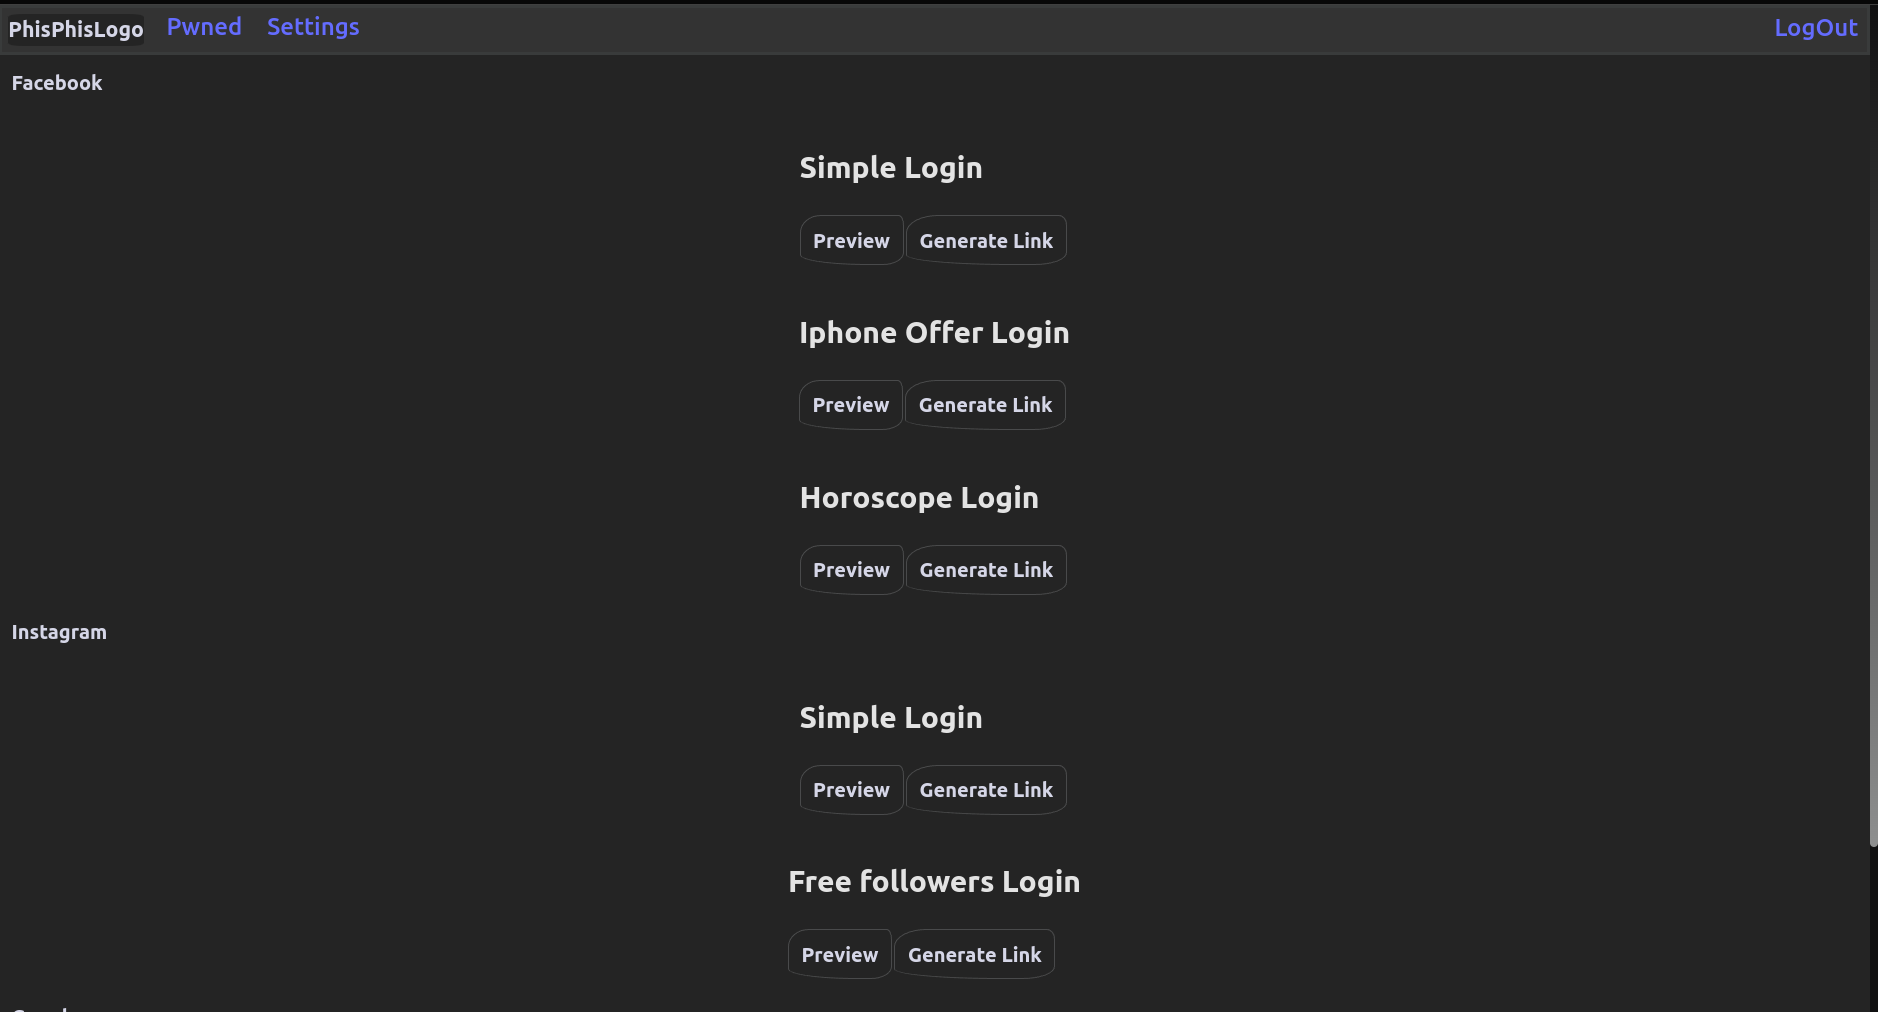
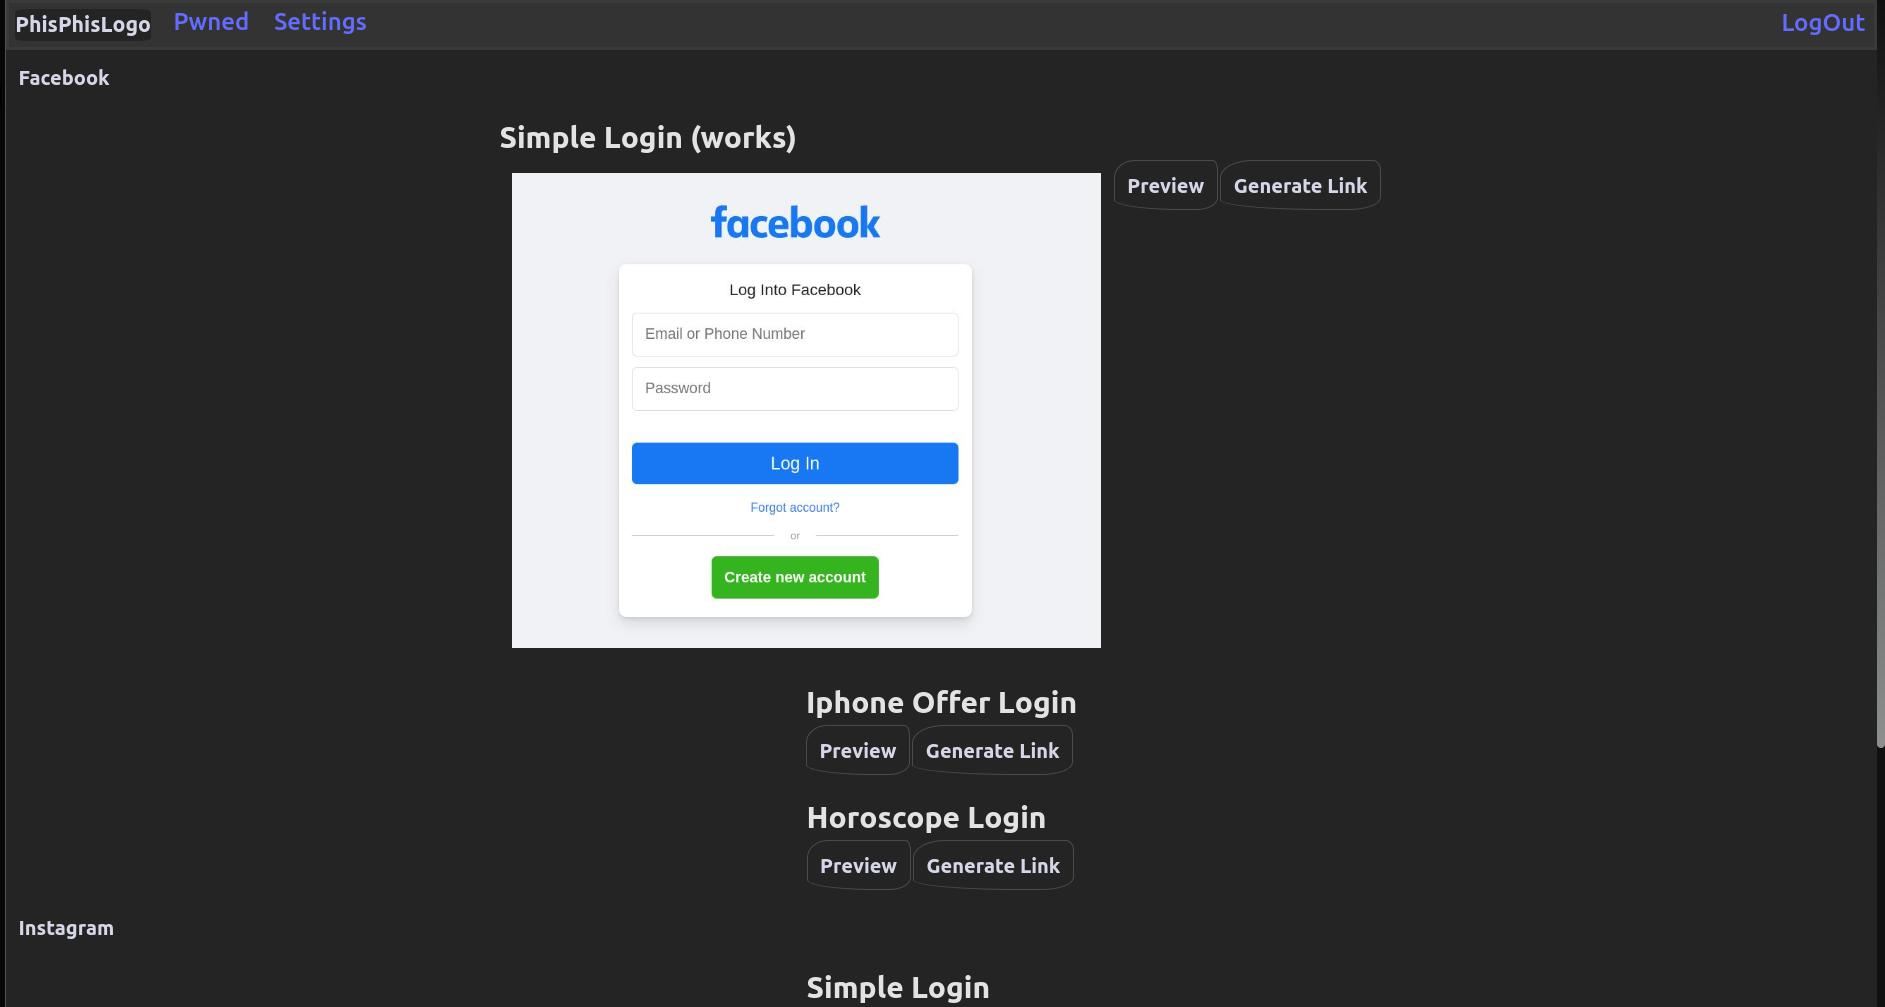
update

diff --git a/README.md b/README.md
@@ -14,6 +14,9 @@ Use only for fun!
     - google login page
 
 ![Phising App](./assets/home.png)
+![Phising App](./assets/genlink.png)
+![phising App](./assets/pwned.png)
+![Phising App](./assets/simpleLoginFbPreview.png)
 
 <!--
 ### apis requirements
